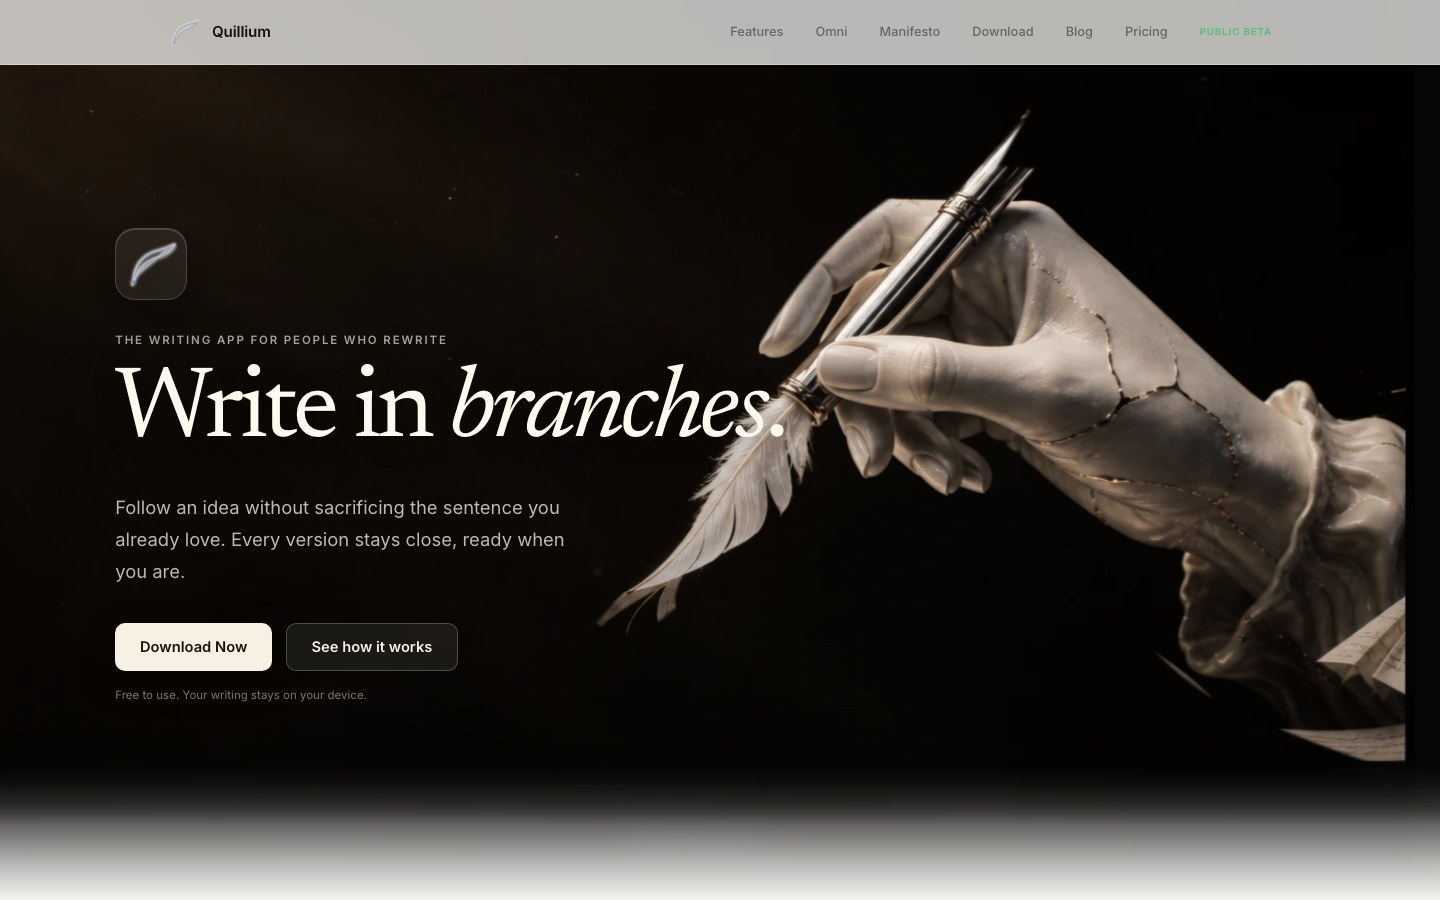
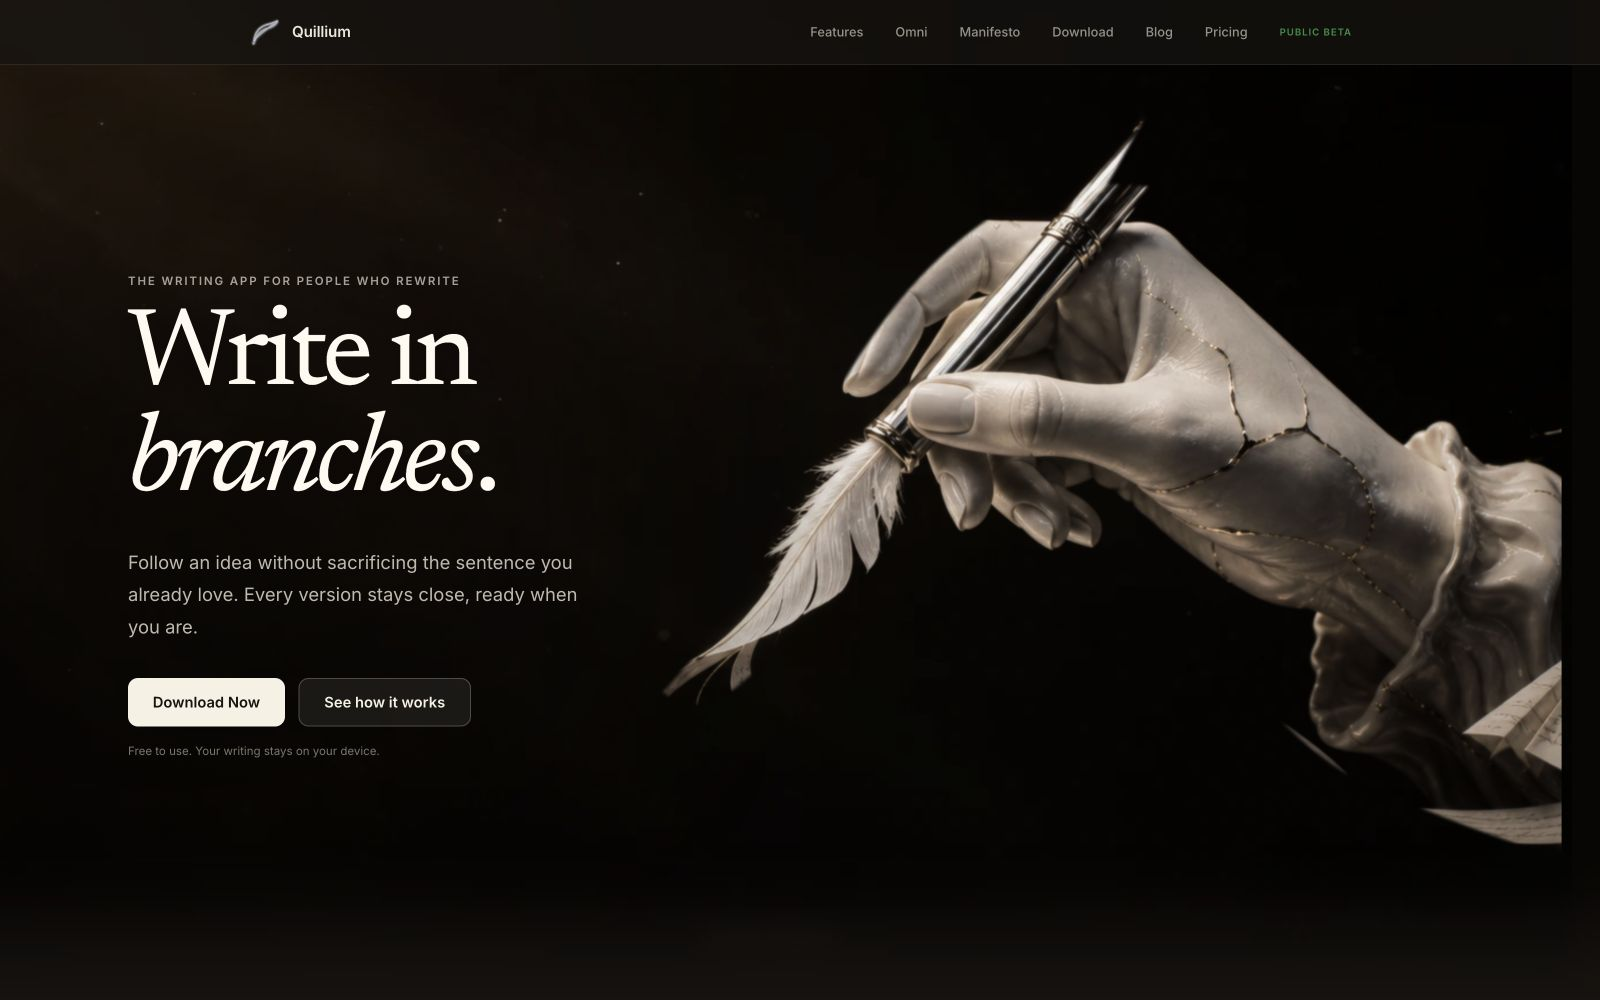
A/B test desktop landing heroes

diff --git a/packages/landing/src/routes/+page.svelte b/packages/landing/src/routes/+page.svelte
@@ -4,6 +4,7 @@ import Download from "$lib/components/Download.svelte";
 import Features from "$lib/components/Features.svelte";
 import Footer from "$lib/components/Footer.svelte";
 import Hero from "$lib/components/Hero.svelte";
+import Hero3DV2 from "$lib/components/Hero3DV2.svelte";
 import ImageParallaxHero from "$lib/components/ImageParallaxHero.svelte";
 import Nav from "$lib/components/Nav.svelte";
 import NotAiStatement from "$lib/components/NotAiStatement.svelte";
@@ -14,34 +15,30 @@ import { onMount, tick } from "svelte";
 
 // The marketing demo (YouTube video id) shown above the feature list.
 const HERO_VIDEO_ID: string = "YKsJSmKGITA";
+const DESKTOP_HERO_EXPERIMENT = "desktop-hero-artwork-v1";
+const DESKTOP_HERO_STORAGE_KEY = "quillium:desktop-hero-variant";
+
+type DesktopHeroVariant = "airplane" | "quill";
 
 let { data } = $props();
 
-// Single landing layout (the hero-layout A/B test ended 2026-06-13; PostHog
-// experiment 376508 stopped, flag `hero-layout` kept only as a dormant QA
-// override). The page is now one fixed composition that diverges by device:
-//   DESKTOP: ImageParallaxHero layered cinematic intro → the marketing video
-//     (VideoOrCarousel, → Showcase carousel on spotty links) → Features → Download.
+// The desktop hero is a stable 50/50 experiment:
+//   QUILL: ImageParallaxHero layered cinematic intro.
+//   AIRPLANE: Hero3DV2 scroll-driven flight.
 //   MOBILE: the plain static Hero (logo + headline + CTA) → Features → Download.
-//     No image parallax and NO video — the static hero stays fast and compact.
+//     It does not enter the experiment and skips the marketing video.
 // The landing page is prerendered, so it cannot know the visitor's viewport at
-// build time. Render the current desktop hero first; defaulting to the legacy
-// mobile hero made its feather layout flash on every desktop visit before
-// hydration could read the viewport width.
+// build time. Render the quill control first, then synchronously restore the
+// browser's persisted assignment during hydration.
 let isMobile = $state(false);
+let desktopHeroVariant = $state<DesktopHeroVariant>("quill");
 
-// Desktop gets the image hero + video; mobile gets the static hero and skips both.
-let showImageHero = $derived(!isMobile);
+let showDesktopHero = $derived(!isMobile);
 
-// isMobile resolves on the client and swaps the desktop (image hero + video) and
-// mobile (static hero) paths, which changes the DOM *after* SSR. Re-run the
-// reveal animations once the new DOM has flushed so freshly-rendered `.reveal`
-// sections (the static Hero's copy, Features, etc.) fade in instead of staying
-// stuck at opacity:0. initReveal() is idempotent.
+// Device and experiment assignment can both swap the prerendered hero after
+// hydration. Re-run reveal animations after the resulting DOM has flushed.
 $effect(() => {
-    // Read showImageHero so the effect re-runs when the layout flips; JSON.stringify
-    // keeps the read from being dead-code-eliminated.
-    JSON.stringify([showImageHero]);
+    JSON.stringify([showDesktopHero, desktopHeroVariant]);
     tick().then(() => initReveal());
 });
 
@@ -52,9 +49,55 @@ onMount(() => {
 
     const mql = matchMedia(`(max-width: ${MOBILE_BREAKPOINT - 1}px)`);
     isMobile = mql.matches;
-    mql.addEventListener("change", (e) => {
-        isMobile = e.matches;
-    });
+    let exposureCaptured = false;
+
+    const activateDesktopExperiment = (): void => {
+        if (isMobile || exposureCaptured) return;
+
+        const requestedVariant = new URLSearchParams(location.search).get("hero");
+        const qaVariant: DesktopHeroVariant | undefined =
+            requestedVariant === "airplane" || requestedVariant === "quill"
+                ? requestedVariant
+                : undefined;
+        let assignmentSource: "new" | "persisted" | "query" = "persisted";
+        let assignedVariant = qaVariant;
+
+        if (qaVariant) {
+            assignmentSource = "query";
+        } else {
+            try {
+                const storedVariant = localStorage.getItem(DESKTOP_HERO_STORAGE_KEY);
+                if (storedVariant === "airplane" || storedVariant === "quill") {
+                    assignedVariant = storedVariant;
+                } else {
+                    assignedVariant = Math.random() < 0.5 ? "quill" : "airplane";
+                    assignmentSource = "new";
+                    localStorage.setItem(DESKTOP_HERO_STORAGE_KEY, assignedVariant);
+                }
+            } catch {
+                assignedVariant = Math.random() < 0.5 ? "quill" : "airplane";
+                assignmentSource = "new";
+            }
+        }
+
+        desktopHeroVariant = assignedVariant ?? "quill";
+        posthog.register({ desktop_hero_variant: desktopHeroVariant });
+        posthog.capture("desktop_hero_experiment_exposed", {
+            experiment: DESKTOP_HERO_EXPERIMENT,
+            variant: desktopHeroVariant,
+            assignment_source: assignmentSource,
+            qa_override: assignmentSource === "query",
+        });
+        exposureCaptured = true;
+    };
+
+    activateDesktopExperiment();
+
+    const onViewportChange = (event: MediaQueryListEvent): void => {
+        isMobile = event.matches;
+        activateDesktopExperiment();
+    };
+    mql.addEventListener("change", onViewportChange);
 
     // Smooth scroll for anchor links
     for (const link of document.querySelectorAll('a[href^="#"]')) {
@@ -68,6 +111,11 @@ onMount(() => {
             }
         });
     }
+
+    return () => {
+        mql.removeEventListener("change", onViewportChange);
+        posthog.unregister("desktop_hero_variant");
+    };
 });
 </script>
 
@@ -145,10 +193,14 @@ onMount(() => {
 
 <Nav />
 <main>
-	<!-- 1. Top hero, by device: desktop gets the layered image experiment,
-	     mobile gets the plain static hero. -->
-	{#if showImageHero}
-		<ImageParallaxHero release={data.release} />
+	<!-- 1. Top hero: desktop enters the persisted quill-vs-airplane experiment;
+	     mobile keeps the lightweight static hero and is excluded. -->
+	{#if showDesktopHero}
+		{#if desktopHeroVariant === "airplane"}
+			<Hero3DV2 release={data.release} />
+		{:else}
+			<ImageParallaxHero release={data.release} />
+		{/if}
 	{:else}
 		<Hero release={data.release} />
 	{/if}
@@ -163,7 +215,7 @@ onMount(() => {
 	<div class="post-hero">
 		<NotAiStatement />
 
-		{#if showImageHero}
+		{#if showDesktopHero}
 			<div class="warm-divider section-divider"></div>
 			<VideoOrCarousel videoId={HERO_VIDEO_ID} location="hero-video" />
 		{/if}

diff --git a/packages/landing/src/lib/components/ImageParallaxHero.svelte b/packages/landing/src/lib/components/ImageParallaxHero.svelte
@@ -103,9 +103,6 @@ onMount(() => {
     </div>
 
     <div class="hero-copy">
-        <div class="brand-mark">
-            <img src="/logo.svg" alt="Quillium mark" width="56" height="56" />
-        </div>
         <p class="eyebrow">The writing app for people who rewrite</p>
         <h1>Write in <em>branches</em>.</h1>
         <p class="subhead">
@@ -317,25 +314,6 @@ onMount(() => {
         align-items: flex-start;
         justify-content: center;
         text-align: left;
-    }
-
-    .brand-mark {
-        display: grid;
-        width: 72px;
-        height: 72px;
-        margin-bottom: 2rem;
-        place-items: center;
-        border: 1px solid rgba(247, 241, 227, 0.18);
-        border-radius: 20px;
-        background: rgba(247, 241, 227, 0.08);
-        box-shadow:
-            inset 0 1px 0 rgba(255, 255, 255, 0.16),
-            0 18px 60px rgba(0, 0, 0, 0.22);
-        backdrop-filter: blur(14px);
-    }
-
-    .brand-mark img {
-        filter: drop-shadow(0 6px 12px rgba(0, 0, 0, 0.24));
     }
 
     .eyebrow {
